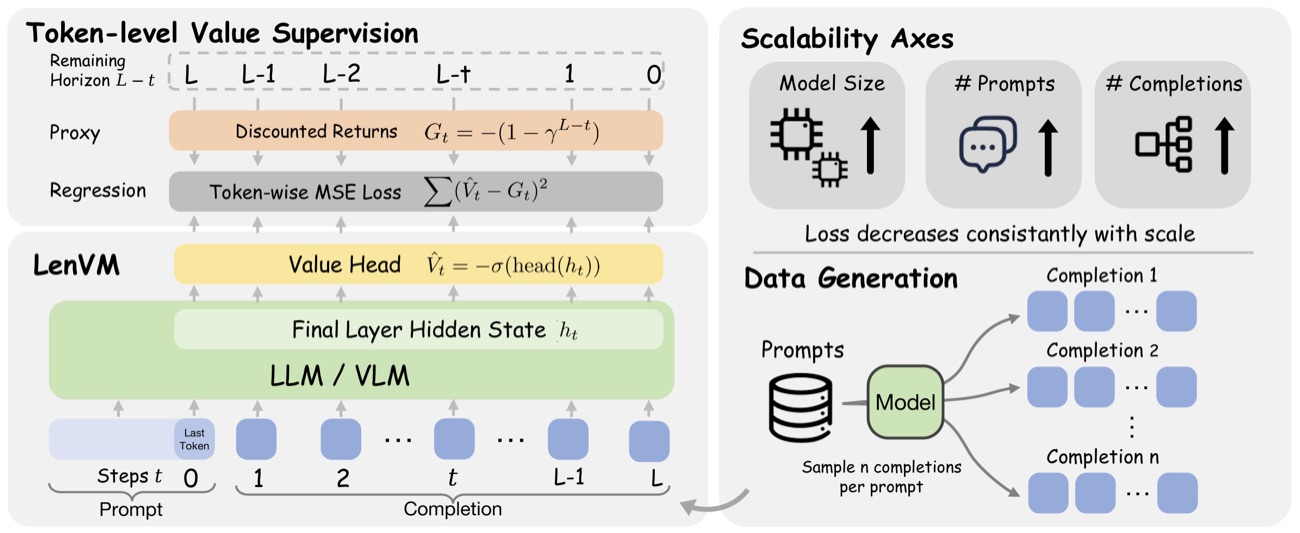
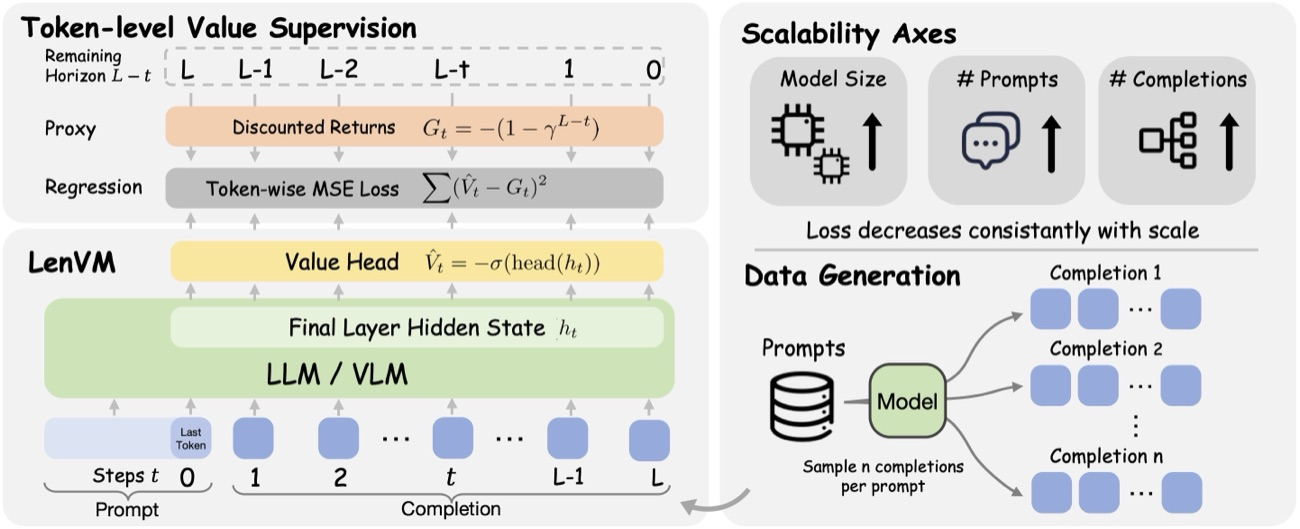
Add teaser images for LVM (own version), Heuresis, Survive or Collapse

diff --git a/_pages/about.md b/_pages/about.md
@@ -107,6 +107,9 @@ I’m also happy to mentor undergraduate and master’s students interested in r
 </div>
 
 <div class="pub">
+  <div class="pub-media">
+    <img src="{{ '/images/Heuresis.jpg' | relative_url }}" alt="Heuresis teaser">
+  </div>
   <div class="pub-body">
     <div class="pub-title">Heuresis: Search Strategies for Autonomous AI Research Agents Across Quality, Diversity and Novelty</div>
     <div class="pub-authors">Antonis Antoniades, Deepak Nathani, Ritam Saha, Alfonso Amayuelas, Ivan Bercovich, <strong>Zhaotian Weng</strong>, Vignesh Baskaran, Kunal Bhatia, William Yang Wang</div>
@@ -116,6 +119,9 @@ I’m also happy to mentor undergraduate and master’s students interested in r
 </div>
 
 <div class="pub">
+  <div class="pub-media">
+    <img src="{{ '/images/Survive.jpg' | relative_url }}" alt="Survive or Collapse teaser">
+  </div>
   <div class="pub-body">
     <div class="pub-title">Survive or Collapse: The Asymmetric Roles of Data Gating and Reward Grounding in Self-Play RL</div>
     <div class="pub-authors">Sophia Xiao Pu, <strong>Zhaotian Weng</strong>, Chengzhi Liu, Jayanth Srinivasa, Gaowen Liu, William Yang Wang, Xin Eric Wang</div>